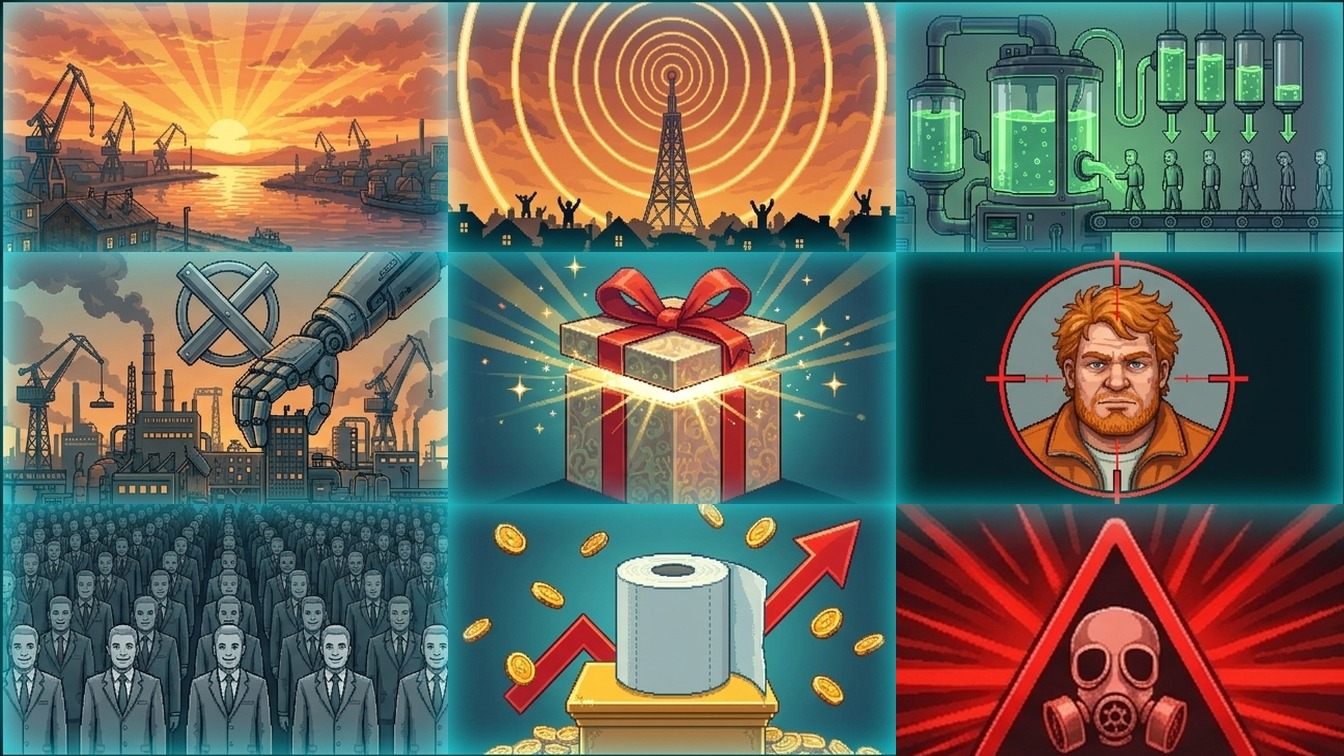
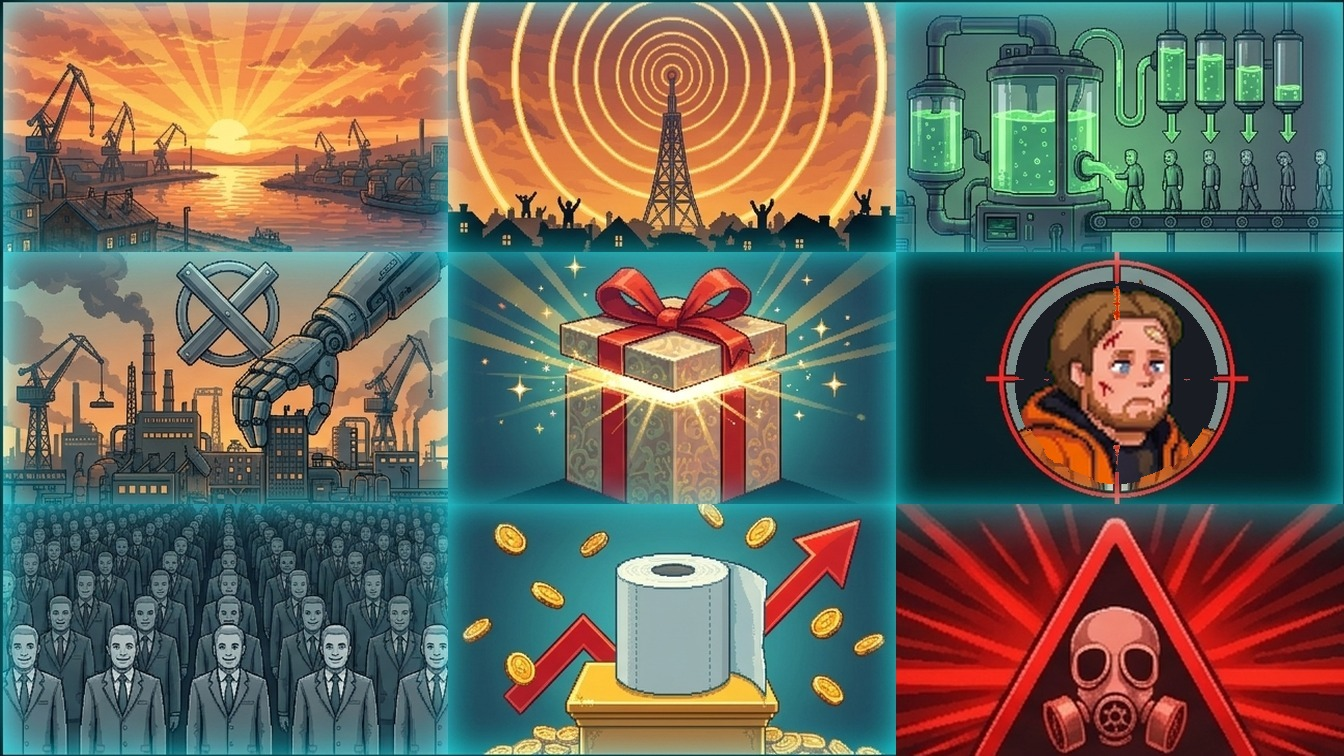
Ур.7 финал: на слайде «в прицеле» — портрет Валеры (tools/valera_slide.py)

Changed region(s): [[0.75, 0.3651, 0.9062, 0.6389]]

diff --git a/index.html b/index.html
@@ -45,58 +45,58 @@
   <div class="tb" id="bP" data-a="pause">II</div>
   <div class="tb" id="bE" data-a="start">OK</div>
 </div>
-<script src="js/webp_list.js?v=544"></script>
-<script src="js/engine.js?v=544"></script>
-<script src="js/sprites_data.js?v=544"></script>
-<script src="js/sprites.js?v=544"></script>
-<script src="js/art.js?v=544"></script>
-<script src="js/game.js?v=544"></script>
-<script src="js/cutscene.js?v=544"></script>
-<script src="js/level1.js?v=544"></script>
-<script src="js/level2.js?v=544"></script>
-<script src="js/level3.js?v=544"></script>
-<script src="js/level4.js?v=544"></script>
-<script src="js/level5.js?v=544"></script>
-<script src="js/level5render.js?v=544"></script>
-<script src="js/level5world.js?v=544"></script>
-<script src="js/level5ent.js?v=544"></script>
-<script src="js/level5logic.js?v=544"></script>
-<script src="js/level5extra.js?v=544"></script>
-<script src="js/level5scenes.js?v=544"></script>
-<script src="js/level6.js?v=544"></script>
-<script src="js/level6foes.js?v=544"></script>
-<script src="js/level6run.js?v=544"></script>
-<script src="js/level6boss.js?v=544"></script>
-<script src="js/level6scenes.js?v=544"></script>
-<script src="js/level7.js?v=544"></script>
-<script src="js/level7map.js?v=544"></script>
-<script src="js/level7mg.js?v=544"></script>
-<script src="js/level7run.js?v=544"></script>
-<script src="js/level7scenes.js?v=544"></script>
-<script src="js/l7v4_props.js?v=544"></script>
-<script src="js/level7v4.js?v=544"></script>
-<script src="js/level7v4run.js?v=544"></script>
-<script src="js/level7v4maps.js?v=544"></script>
-<script src="js/level7v4scenes.js?v=544"></script>
-<script src="js/level7v4in.js?v=544"></script>
-<script src="js/l7v4_adm_props.js?v=544"></script>
-<script src="js/level7v4adm.js?v=544"></script>
-<script src="js/l7v4_hall_data.js?v=544"></script>
-<script src="js/level7v4hall.js?v=544"></script>
-<script src="js/l8_data.js?v=544"></script>
-<script src="js/level8.js?v=544"></script>
-<script src="js/level8map.js?v=544"></script>
-<script src="js/level8map2.js?v=544"></script>
-<script src="js/level8boss.js?v=544"></script>
-<script src="js/l9_data.js?v=544"></script>
-<script src="js/level9.js?v=544"></script>
-<script src="js/level9tun.js?v=544"></script>
-<script src="js/level9lab.js?v=544"></script>
-<script src="js/level9foes.js?v=544"></script>
-<script src="js/level9labmap.js?v=544"></script>
-<script src="js/level9traps.js?v=544"></script>
-<script src="js/level9movers.js?v=544"></script>
-<script src="js/level9arrive.js?v=544"></script>
-<script src="js/main.js?v=544"></script>
+<script src="js/webp_list.js?v=545"></script>
+<script src="js/engine.js?v=545"></script>
+<script src="js/sprites_data.js?v=545"></script>
+<script src="js/sprites.js?v=545"></script>
+<script src="js/art.js?v=545"></script>
+<script src="js/game.js?v=545"></script>
+<script src="js/cutscene.js?v=545"></script>
+<script src="js/level1.js?v=545"></script>
+<script src="js/level2.js?v=545"></script>
+<script src="js/level3.js?v=545"></script>
+<script src="js/level4.js?v=545"></script>
+<script src="js/level5.js?v=545"></script>
+<script src="js/level5render.js?v=545"></script>
+<script src="js/level5world.js?v=545"></script>
+<script src="js/level5ent.js?v=545"></script>
+<script src="js/level5logic.js?v=545"></script>
+<script src="js/level5extra.js?v=545"></script>
+<script src="js/level5scenes.js?v=545"></script>
+<script src="js/level6.js?v=545"></script>
+<script src="js/level6foes.js?v=545"></script>
+<script src="js/level6run.js?v=545"></script>
+<script src="js/level6boss.js?v=545"></script>
+<script src="js/level6scenes.js?v=545"></script>
+<script src="js/level7.js?v=545"></script>
+<script src="js/level7map.js?v=545"></script>
+<script src="js/level7mg.js?v=545"></script>
+<script src="js/level7run.js?v=545"></script>
+<script src="js/level7scenes.js?v=545"></script>
+<script src="js/l7v4_props.js?v=545"></script>
+<script src="js/level7v4.js?v=545"></script>
+<script src="js/level7v4run.js?v=545"></script>
+<script src="js/level7v4maps.js?v=545"></script>
+<script src="js/level7v4scenes.js?v=545"></script>
+<script src="js/level7v4in.js?v=545"></script>
+<script src="js/l7v4_adm_props.js?v=545"></script>
+<script src="js/level7v4adm.js?v=545"></script>
+<script src="js/l7v4_hall_data.js?v=545"></script>
+<script src="js/level7v4hall.js?v=545"></script>
+<script src="js/l8_data.js?v=545"></script>
+<script src="js/level8.js?v=545"></script>
+<script src="js/level8map.js?v=545"></script>
+<script src="js/level8map2.js?v=545"></script>
+<script src="js/level8boss.js?v=545"></script>
+<script src="js/l9_data.js?v=545"></script>
+<script src="js/level9.js?v=545"></script>
+<script src="js/level9tun.js?v=545"></script>
+<script src="js/level9lab.js?v=545"></script>
+<script src="js/level9foes.js?v=545"></script>
+<script src="js/level9labmap.js?v=545"></script>
+<script src="js/level9traps.js?v=545"></script>
+<script src="js/level9movers.js?v=545"></script>
+<script src="js/level9arrive.js?v=545"></script>
+<script src="js/main.js?v=545"></script>
 </body>
 </html>

diff --git a/js/engine.js b/js/engine.js
@@ -1,7 +1,7 @@
 'use strict';
 // ============ ДВИЖОК: экран, ввод, звук, утилиты, частицы, текст ============
 const W = 640, H = 360;
-const G = { W, H, t: 0, dt: 0, debug: false, VER: '544' };
+const G = { W, H, t: 0, dt: 0, debug: false, VER: '545' };
 window.G = G;
 
 const canvas = document.getElementById('game');

diff --git a/tools/valera_slide.py b/tools/valera_slide.py
@@ -1,0 +1,19 @@
+# Слайд «в прицеле» в финале ур.7 (hslides, ячейка 5): лицо в круге -> портрет Валеры (p_valera6), прицел поверх сохраняется.
+# Запуск: py tools/valera_slide.py (вызывается из l7v5_hall.py). Оригинал слайдов: art_src/mrx_old/assets__l7v4__hslides.jpg
+import os, shutil
+import numpy as np
+from PIL import Image, ImageDraw
+R = os.path.join(os.path.dirname(os.path.abspath(__file__)), '..')
+keep = os.path.join(R, 'art_src', 'mrx_old', 'assets__l7v4__hslides.jpg'); os.makedirs(os.path.dirname(keep), exist_ok=True)
+if not os.path.exists(keep): shutil.copy(os.path.join(R, 'assets/l7v4/hslides.jpg'), keep)
+s = Image.open(keep).convert('RGB'); X0, Y0 = 896, 252; cell = s.crop((X0, Y0, X0 + 448, Y0 + 252))
+a = np.asarray(cell).astype(int); r, g, b = a[..., 0], a[..., 1], a[..., 2]
+CX, CY, RAD = 220, 130, 101
+yy, xx = np.mgrid[0:252, 0:448]; dd = np.hypot(xx - CX, yy - CY)
+cross = (r > 140) & (r > g * 1.9) & (r > b * 1.9) & ((((np.abs(xx - CX) < 4) | (np.abs(yy - CY) < 4)) & (dd > RAD * 0.62)) | (np.abs(dd - RAD - 4) < 7))     # красный прицел (линии и кольцо) — вернуть поверх лица
+v = Image.open(os.path.join(R, 'assets/spr/p_valera6.png')).convert('RGB').resize((RAD * 2 + 30, RAD * 2 + 30), Image.LANCZOS)
+m = Image.new('L', v.size, 0); ImageDraw.Draw(m).ellipse((15, 15, 15 + RAD * 2, 15 + RAD * 2), fill=255)
+cell.paste(v, (CX - RAD - 15, CY - RAD - 15), m)
+o = np.asarray(cell).copy(); o[cross] = a[cross]; cell = Image.fromarray(o.astype(np.uint8))
+s.paste(cell, (X0, Y0)); s.save(os.path.join(R, 'assets/l7v4/hslides.jpg'), quality=92)
+cell.save(os.path.join(R, 'art_src', 'l9', '_vslide.jpg'))

diff --git a/tools/l7v5_hall.py b/tools/l7v5_hall.py
@@ -130,3 +130,4 @@ if __name__ == '__main__':
 
 # Господин Икс — только глаза и улыбка на чёрном (перезаписывает p_mrx, mrx_box, hmrx)
 import subprocess as _sp, sys as _sys; _sp.run([_sys.executable, os.path.join(os.path.dirname(os.path.abspath(__file__)), "mrx_eyes.py")])
+import subprocess as _sp2, sys as _sys2; _sp2.run([_sys2.executable, os.path.join(os.path.dirname(os.path.abspath(__file__)), "valera_slide.py")])     # Валера на слайде «в прицеле»
